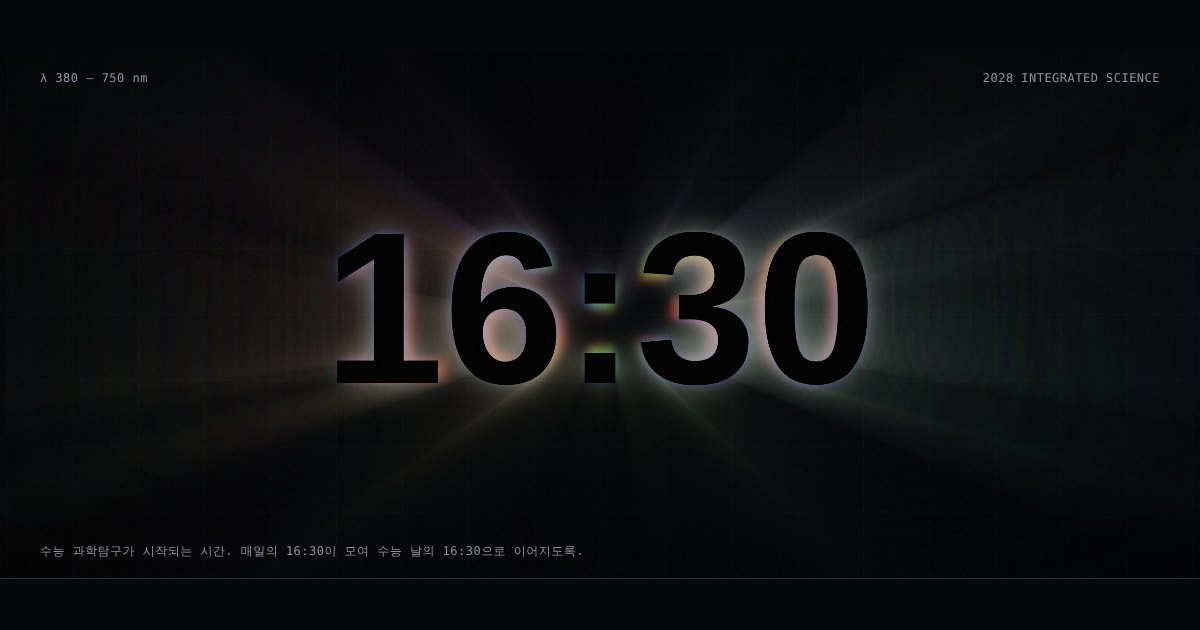
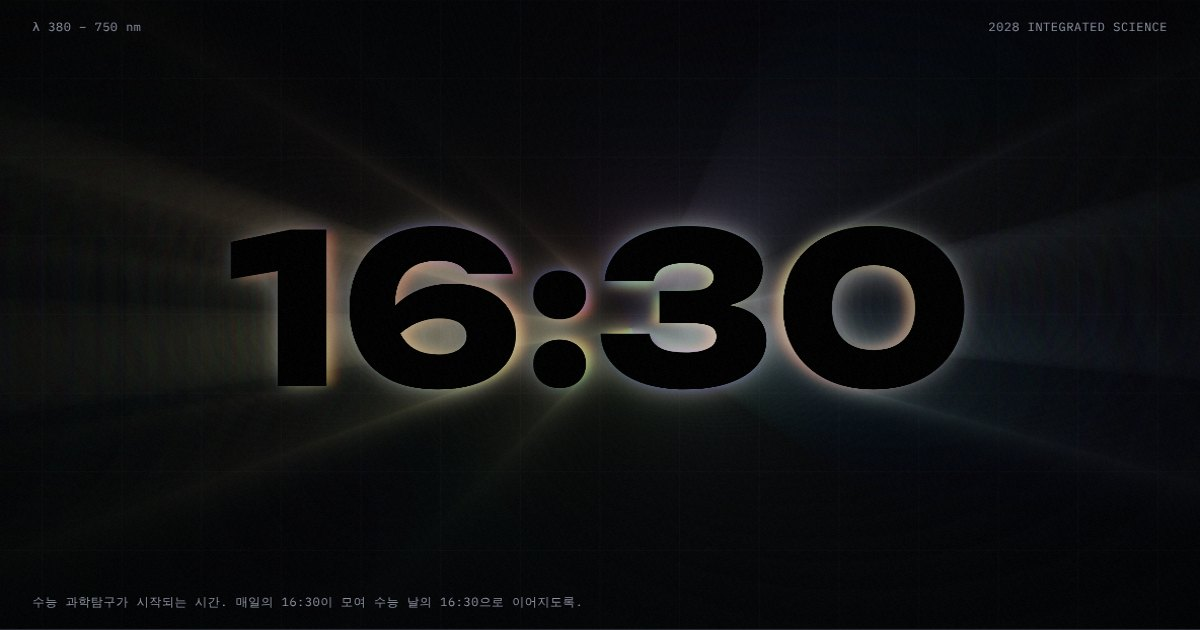
피드백 반영: 메인 안내, 화면별 다음 버튼, 후광 통일, FAQ, 검색 등록 파일, 미리보기 이미지
Claude-Session: https://claude.ai/code/session_01KwA3uQPscA4NusDi6hNhgm

diff --git a/index.html b/index.html
@@ -80,6 +80,11 @@ ul{margin:0;padding:0;list-style:none}
 .no-gl #prism{display:none}
 .hud{position:absolute;inset:0;display:flex;flex-direction:column;justify-content:space-between;padding-block:18px;pointer-events:none;font:400 12px/1.5 var(--f-mono);color:#8b92a1;letter-spacing:.04em}
 .hud-top,.hud-bot{display:flex;justify-content:space-between;gap:16px;flex-wrap:wrap}
+.hud-bot{align-items:flex-end}
+.hud-cta{pointer-events:auto;display:inline-flex;align-items:center;gap:12px;padding:10px 16px;border-radius:999px;border:1px solid rgba(255,255,255,.28);background:rgba(8,9,12,.55);backdrop-filter:blur(6px);-webkit-backdrop-filter:blur(6px);color:var(--fg);text-decoration:none;font:500 14px/1.2 var(--f-body);letter-spacing:0;box-shadow:0 0 18px rgba(255,255,255,.08);white-space:nowrap;transition:box-shadow .3s,border-color .3s}
+.hud-cta b{font-weight:700}
+.hud-cta span{color:#c9ceda}
+.hud-cta:hover{border-color:rgba(255,255,255,.5);box-shadow:0 0 26px rgba(255,255,255,.16)}
 .hud-bot .hint{color:#c9ceda}
 @media (hover:none){.hud-bot .hint{display:none}}
 
@@ -146,6 +151,21 @@ a.aff:hover .aff-arr{color:var(--fg)}
 @media (max-width:980px){.aff-grid.six{grid-template-columns:repeat(3,minmax(0,1fr))}.aff-grid.four{grid-template-columns:repeat(2,minmax(0,1fr))}}
 @media (max-width:520px){.aff-grid.six,.aff-grid.four{grid-template-columns:repeat(2,minmax(0,1fr))}.aff{min-height:100px;padding:14px}.aff-big{font-size:22px}.aff-name{font-size:15px}}
 @media (prefers-reduced-motion:reduce){.aff{transition:none}}
+/* 화면 끝 다음 버튼 */
+.next-nav{padding-block:40px 64px}
+.next-in{display:grid;grid-template-columns:minmax(0,2fr) minmax(0,1fr);gap:12px}
+.next{position:relative;overflow:hidden;display:grid;grid-template-columns:auto minmax(0,1fr) auto;align-items:center;gap:16px;padding:22px 24px;border-radius:var(--radius);background:var(--panel);border:1px solid rgba(255,255,255,.18);color:var(--fg);text-decoration:none;box-shadow:0 0 18px rgba(255,255,255,.06),0 0 54px rgba(255,255,255,.05),inset 0 1px 0 rgba(255,255,255,.12);transition:box-shadow .3s,border-color .3s}
+.next::before{content:"";position:absolute;left:-10%;top:-70px;width:70%;height:140px;background:radial-gradient(50% 50% at 50% 50%,rgba(255,255,255,.1),transparent 70%);pointer-events:none}
+.next:hover{border-color:rgba(255,255,255,.34);box-shadow:0 0 24px rgba(255,255,255,.12),0 0 70px rgba(255,255,255,.08),inset 0 1px 0 rgba(255,255,255,.2)}
+.next-k{font:500 12px/1 var(--f-mono);letter-spacing:.08em;color:var(--mute);white-space:nowrap}
+.next-t{font-size:22px;font-weight:700;letter-spacing:-0.02em;text-shadow:0 0 16px rgba(255,255,255,.22);white-space:nowrap;overflow:hidden;text-overflow:ellipsis}
+.next-a{font-size:20px;transition:transform .3s}
+.next:hover .next-a{transform:translateX(4px)}
+.next.ghost .next-t{font-size:18px}
+body:not([data-view="home"]) footer{border-top:1px solid var(--line)}
+.w-note{margin-top:20px;max-width:640px;color:var(--mute);font-size:15px}
+@media (max-width:760px){.next-in{grid-template-columns:minmax(0,1fr)}.next{padding:18px 20px}.next-t{font-size:19px}.hud-bot{flex-direction:column;align-items:flex-start;gap:12px}.hud-cta{font-size:13px;padding:9px 14px}}
+@media (prefers-reduced-motion:reduce){.next-a,.next,.hud-cta{transition:none}}
 /* 공통 섹션 */
 section.block{padding-block:96px;border-bottom:1px solid var(--line)}
 .sec-head{max-width:760px}
@@ -212,7 +232,7 @@ section.block{padding-block:96px;border-bottom:1px solid var(--line)}
 
 /* 시간표 */
 .legend{display:flex;flex-wrap:wrap;gap:16px;font-size:14px;color:var(--mute)}
-.legend i{display:inline-block;width:12px;height:12px;border-radius:3px;margin-right:6px;vertical-align:-1px}
+.legend i{display:inline-block;width:10px;height:10px;border-radius:50%;margin-right:7px;vertical-align:0}
 .filters{display:flex;flex-wrap:wrap;gap:8px;margin-top:20px}
 .filters button{font:500 14px/1 var(--f-body);color:var(--mute);background:var(--panel);border:1px solid var(--line);border-radius:999px;padding:10px 14px;cursor:pointer}
 .filters button[aria-pressed="true"]{color:var(--ink);background:var(--fg);border-color:var(--fg)}
@@ -222,9 +242,13 @@ section.block{padding-block:96px;border-bottom:1px solid var(--line)}
 .tt-r{font-weight:600;padding-top:12px;color:var(--mute)}
 .cell{border-radius:12px;min-height:132px;padding:14px;display:flex;flex-direction:column;gap:2px;transition:opacity .25s}
 .cell.empty{background:var(--panel);border:1px solid var(--line)}
-.cell.suneung{background:var(--sun);color:var(--sun-ink)}
-.cell.naesin{background:var(--sky);color:var(--sky-ink)}
-.cell.nall{border:1.5px solid var(--fg)}
+.cell.suneung,.cell.naesin,.cell.nall{position:relative;overflow:hidden;background:var(--panel);color:var(--fg);border:1px solid rgba(255,255,255,.18);box-shadow:0 0 16px rgba(255,255,255,.06),0 0 44px rgba(255,255,255,.04),inset 0 1px 0 rgba(255,255,255,.12)}
+.cell.suneung::before,.cell.naesin::before,.cell.nall::before{content:"";position:absolute;left:-20%;right:-20%;top:-50px;height:100px;background:radial-gradient(50% 50% at 50% 50%,rgba(255,255,255,.1),transparent 70%);pointer-events:none}
+.cell .tm{text-shadow:0 0 16px rgba(255,255,255,.28)}
+.cell .ty::before{content:"";display:inline-block;width:8px;height:8px;border-radius:50%;margin-right:7px;vertical-align:1px;background:var(--sun);box-shadow:0 0 8px var(--sun)}
+.cell.naesin .ty::before{background:var(--sky);box-shadow:0 0 8px var(--sky)}
+.cell.nall .ty::before{background:transparent;border:1.5px solid var(--fg);box-shadow:none;width:6px;height:6px}
+.cell .br,.cell .to{color:#c9ceda}
 .cell .br{font-size:13px;font-weight:600}
 .cell .tm{font:700 26px/1.1 var(--f-disp);letter-spacing:-0.02em;font-variant-numeric:tabular-nums;margin-top:2px}
 .cell .to{font-size:13px;opacity:.8}
@@ -263,9 +287,11 @@ section.block{padding-block:96px;border-bottom:1px solid var(--line)}
 @keyframes slide{from{transform:translateX(0)}to{transform:translateX(-50%)}}
 @media (max-width:520px){.set .rv{width:280px}}
 @media (prefers-reduced-motion:reduce){.track{animation:none}.marquee{overflow-x:auto;-webkit-mask-image:none;mask-image:none}.set[aria-hidden]{display:none}}
-.yt{display:grid;grid-template-columns:minmax(0,1fr) auto;gap:24px;align-items:center;padding:26px;border:1px solid var(--line);border-radius:var(--radius);background:var(--panel)}
+.yt{position:relative;overflow:hidden;display:grid;grid-template-columns:minmax(0,1fr) auto;gap:24px;align-items:center;padding:26px;border:1px solid rgba(255,255,255,.16);border-radius:var(--radius);background:var(--panel);box-shadow:0 0 18px rgba(255,255,255,.06),0 0 54px rgba(255,255,255,.05),inset 0 1px 0 rgba(255,255,255,.12)}
+.yt::before{content:"";position:absolute;left:-10%;top:-80px;width:60%;height:160px;background:radial-gradient(50% 50% at 50% 50%,rgba(255,255,255,.1),transparent 70%);pointer-events:none}
+.yt-stats b{text-shadow:0 0 16px rgba(255,255,255,.25)}
 .yt-stats{display:grid;grid-template-columns:repeat(3,minmax(0,1fr));gap:12px;margin-top:18px}
-.yt-stats div{padding:14px;border-radius:10px;background:var(--panel-2)}
+.yt-stats div{padding:14px;border-radius:10px;background:var(--panel-2);border:1px solid rgba(255,255,255,.08)}
 .yt-stats b{display:block;font:700 22px/1.2 var(--f-disp)}
 .yt-stats span{font-size:13px;color:var(--mute)}
 .yt-stats b{font-variant-numeric:tabular-nums}
@@ -352,7 +378,8 @@ footer b{color:var(--fg)}
 @media (max-width:760px){
   .nav-in{flex-wrap:wrap;height:auto;padding-block:10px;row-gap:8px}
   .nav-cta{margin-left:auto}
-  .links{order:3;width:100%;margin-left:0}
+  .links{order:3;width:100%;margin-left:0;justify-content:space-between;gap:0}
+  .links a{font-size:13px;padding:6px 6px}
   body[data-view="home"] .stage{height:calc(100svh - 104px - 250px - env(safe-area-inset-top,0px))}
   .intro{grid-template-columns:minmax(0,1fr);gap:8px;padding-top:40px}
   .portrait{order:-1;width:min(70%,300px)}
@@ -403,7 +430,7 @@ footer b{color:var(--fg)}
     <div class="fallback" aria-hidden="true">16:30</div>
     <div class="hud wrap" aria-hidden="true">
       <div class="hud-top"><span>λ 380 – 750 nm</span><span>2028 INTEGRATED SCIENCE</span></div>
-      <div class="hud-bot"><span>수능 과학탐구가 시작되는 시간. 매일의 16:30이 모여 수능 날의 16:30으로 이어지도록.</span></div>
+      <div class="hud-bot"><span>수능 과학탐구가 시작되는 시간. 매일의 16:30이 모여 수능 날의 16:30으로 이어지도록.</span><a class="hud-cta" href="#about"><b>박건수 통합과학</b><span>강사 소개 보기 →</span></a></div>
     </div>
   </div>
 
@@ -520,6 +547,8 @@ footer b{color:var(--fg)}
     <div class="glow-line" aria-hidden="true"></div>
   </div>
 </section>
+
+<nav class="next-nav" aria-label="다음 화면"><div class="wrap next-in"><a class="next" href="#curriculum"><span class="next-k">다음</span><span class="next-t">커리큘럼</span><span class="next-a" aria-hidden="true">→</span></a><a class="next ghost" href="#contact"><span class="next-k">바로 가기</span><span class="next-t">수강 상담</span><span class="next-a" aria-hidden="true">→</span></a></div></nav>
 </div>
 
 <div class="view" data-view="curriculum" hidden>
@@ -608,6 +637,8 @@ footer b{color:var(--fg)}
     </div>
   </div>
 </section>
+
+<nav class="next-nav" aria-label="다음 화면"><div class="wrap next-in"><a class="next" href="#winter"><span class="next-k">다음</span><span class="next-t">겨울방학 LEVEL UP</span><span class="next-a" aria-hidden="true">→</span></a><a class="next ghost" href="#timetable"><span class="next-k">바로 가기</span><span class="next-t">시간표</span><span class="next-a" aria-hidden="true">→</span></a></div></nav>
 </div>
 
 <div class="view" data-view="winter" hidden>
@@ -630,8 +661,11 @@ footer b{color:var(--fg)}
         </div>
       </article>
     </div>
+    <p class="w-note">학원별 개강 요일과 시간은 각 학원으로 문의해 주세요. 아래 시간표와 수강 상담에서 바로 확인할 수 있습니다.</p>
   </div>
 </section>
+
+<nav class="next-nav" aria-label="다음 화면"><div class="wrap next-in"><a class="next" href="#timetable"><span class="next-k">다음</span><span class="next-t">시간표</span><span class="next-a" aria-hidden="true">→</span></a><a class="next ghost" href="#contact"><span class="next-k">바로 가기</span><span class="next-t">수강 상담</span><span class="next-a" aria-hidden="true">→</span></a></div></nav>
 </div>
 
 <div class="view" data-view="timetable" hidden>
@@ -650,6 +684,8 @@ footer b{color:var(--fg)}
     <div class="tt" id="tt"></div>
   </div>
 </section>
+
+<nav class="next-nav" aria-label="다음 화면"><div class="wrap next-in"><a class="next" href="#contact"><span class="next-k">다음</span><span class="next-t">수강 상담</span><span class="next-a" aria-hidden="true">→</span></a><a class="next ghost" href="#faq"><span class="next-k">바로 가기</span><span class="next-t">FAQ</span><span class="next-a" aria-hidden="true">→</span></a></div></nav>
 </div>
 
 <div class="view" data-view="faq" hidden>
@@ -660,16 +696,18 @@ footer b{color:var(--fg)}
       <h2>궁금한 점을 먼저 풀어 드립니다.</h2>
     </div>
     <div class="faq mt-l">
-      <details><summary>고1 때 통합과학을 배웠는데, 수능 대비를 다시 해야 하나요?</summary><p>학교 내신은 정해진 범위 안에서 출제되지만, 수능은 여러 단원을 연결해 묻는 문항이 많습니다. LEVEL UP에서 고1 때 배운 개념을 수능 문항의 관점으로 다시 엮고, SKILL UP부터 연결 훈련을 이어 갑니다.</p></details>
-      <details><summary>기출이 없는데 무엇으로 연습하나요?</summary><p>박건수T가 연구소와 출제팀에서 직접 만든 문항으로 연습합니다. 월간지 RAID 10권, MAikers 모의고사 16회분, 평가원 모의평가 직후 나오는 분석서 UPDATE가 1년 동안 이어집니다.</p></details>
-      <details><summary>통합과학을 처음 제대로 공부해도 따라갈 수 있나요?</summary><p>네. LEVEL UP은 개념을 이해하는 단계부터 시작합니다. 매주 개념 복습 테스트를 보고, 통과할 때까지 재시험을 무제한으로 볼 수 있어 빈틈을 남기지 않습니다.</p></details>
+      <details><summary>학교에서 통합과학을 배웠는데, 수능 대비를 따로 해야 하나요?</summary><p>학교 내신은 정해진 범위 안에서 출제되지만, 수능은 여러 단원을 연결해 묻는 문항이 많습니다. LEVEL UP에서 배운 개념을 수능 출제자의 관점으로 다시 엮고, SKILL UP부터 연결 훈련을 이어 갑니다.</p></details>
+      <details><summary>기출이 없는데 무엇으로 연습하나요?</summary><p>박건수T가 연구소와 출제팀에서 직접 만든 문항으로 연습합니다. 자체 N제, 극딜 모의고사 S1~S4 16회분, MAikers 모의고사 16회분, 월간지 RAID 10권, 그리고 평가원 모의평가 직후 나오는 분석서 UPDATE가 1년 동안 이어집니다.</p></details>
+      <details><summary>N수생인데 통합과학을 처음 공부해도 괜찮을까요?</summary><p>네. 2028 수능 통합과학은 모든 수험생에게 처음 치르는 시험입니다. LEVEL UP은 개념을 이해하는 단계부터 시작합니다. 매주 개념 복습 테스트를 보고, 통과할 때까지 재시험을 무제한으로 볼 수 있어 빈틈을 남기지 않습니다.</p></details>
       <details><summary>결석하면 수업을 어떻게 따라가나요?</summary><p>개인 홈페이지에 복습 영상과 추가 강의 영상이 올라갑니다. 결석한 주의 내용도 영상과 과제로 따라올 수 있습니다.</p></details>
       <details><summary>학부모는 학습 상황을 어떻게 확인하나요?</summary><p>수업이 끝나면 테스트와 과제 결과, 누적 성취도와 약점을 문자로 보내 드립니다. 주기적인 학생 상담 내용도 함께 공유합니다.</p></details>
       <details><summary>질문은 언제, 어떻게 할 수 있나요?</summary><p>수업 전후에 직접 질문할 수 있고, 수업 밖에서는 온라인으로 실시간 질문을 받습니다.</p></details>
-      <details><summary>수강 신청과 상담은 어디로 하면 되나요?</summary><p>다니실 학원으로 바로 문의해 주세요. 아래에 학원별 연락처를 정리해 두었습니다.</p></details>
+      <details><summary>수강 신청과 상담은 어디로 하면 되나요?</summary><p>다니실 학원으로 바로 문의해 주세요. 수강 상담 메뉴에 학원별 연락처를 정리해 두었습니다.</p></details>
     </div>
   </div>
 </section>
+
+<nav class="next-nav" aria-label="다음 화면"><div class="wrap next-in"><a class="next" href="#contact"><span class="next-k">다음</span><span class="next-t">수강 상담</span><span class="next-a" aria-hidden="true">→</span></a><a class="next ghost" href="#home"><span class="next-k">처음으로</span><span class="next-t">메인</span><span class="next-a" aria-hidden="true">→</span></a></div></nav>
 </div>
 
 <div class="view" data-view="contact" hidden>
@@ -694,6 +732,8 @@ footer b{color:var(--fg)}
     </div>
   </div>
 </section>
+
+<nav class="next-nav" aria-label="다음 화면"><div class="wrap next-in"><a class="next" href="#timetable"><span class="next-k">다시 보기</span><span class="next-t">시간표</span><span class="next-a" aria-hidden="true">→</span></a><a class="next ghost" href="#home"><span class="next-k">처음으로</span><span class="next-t">메인</span><span class="next-a" aria-hidden="true">→</span></a></div></nav>
 </div>
 
 </main>
